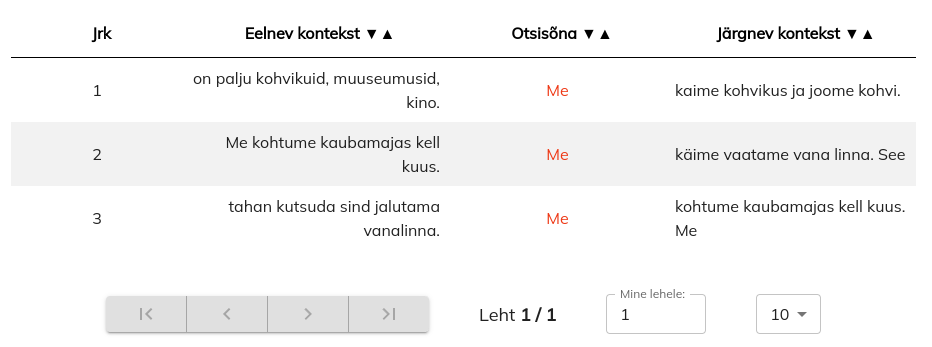
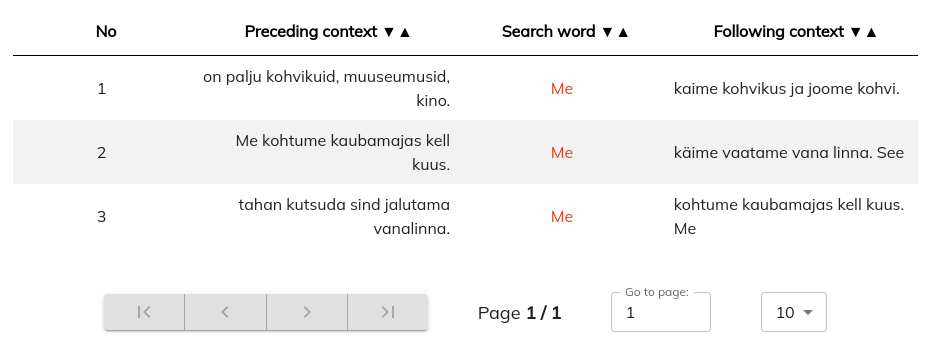
Osad pildid lisatud.

diff --git a/ui/src/elle/components/styles/InfoElement.css b/ui/src/elle/components/styles/InfoElement.css
@@ -1,127 +1,127 @@
 @keyframes bg-slide-in-info {
-  from {
-    left: -100%;
-  }
-  to {
-    left: 0;
-  }
+    from {
+        left: -100%;
+    }
+    to {
+        left: 0;
+    }
 }
 
 .info-element-container {
-  margin-top: 100px;
-  height: 700px !important;
-  border-radius: 50px;
+    margin-top: 100px;
+    height: 700px !important;
+    border-radius: 50px;
 }
 
 .info-element-inner {
-  width: 100%;
-  height: 100%;
-  border-radius: 45px;
-  position: relative;
-  overflow: hidden;
-  display: flex;
+    width: 100%;
+    height: 100%;
+    border-radius: 45px;
+    position: relative;
+    overflow: hidden;
+    display: flex;
 }
 
 .info-element-inner::after {
-  height: 15%;
-  width: 31%;
-  left: -10.5%;
-  top: 0;
-  background-color: #FFD0FD;
-  position: absolute;
-  content: "";
-  transform: skew(-45deg);
-  z-index: 2;
+    height: 15%;
+    width: 31%;
+    left: -10.5%;
+    top: 0;
+    background-color: #FFD0FD;
+    position: absolute;
+    content: "";
+    transform: skew(-45deg);
+    z-index: 2;
 }
 
 .info-tool-title {
-  display: flex;
-  padding: 1%;
-  align-items: center;
-  justify-content: center;
-  height: 15%;
-  width: 20%;
-  background-color: transparent;
-  position: absolute;
-  z-index: 3;
+    display: flex;
+    padding: 1%;
+    align-items: center;
+    justify-content: center;
+    height: 15%;
+    width: 20%;
+    background-color: transparent;
+    position: absolute;
+    z-index: 3;
 }
 
 .elle-tools {
-  width: 17%;
-  height: 100%;
-  display: flex;
-  flex-direction: column;
-  justify-content: flex-end;
-  align-items: flex-end;
+    width: 17%;
+    height: 100%;
+    display: flex;
+    flex-direction: column;
+    justify-content: flex-end;
+    align-items: flex-end;
 }
 
 .btn-visible:nth-child(7)::after {
-  border-radius: 0 5px 0 0;
+    border-radius: 0 5px 0 0;
 }
 
 .info-video {
-  display: flex;
-  align-items: center;
-  justify-content: flex-end;
-  width: 83%;
-  height: 100%;
+    display: flex;
+    align-items: center;
+    justify-content: flex-end;
+    width: 83%;
+    height: 100%;
 }
 
 .info-image {
-  height: 100%;
+    width: 100%;
 }
 
 .info-video-styling {
-  position: relative;
-  width: 100%;
+    position: relative;
+    width: 100%;
 }
 
 .info-video::after {
-  content: "";
-  top: 0;
-  width: 85%;
-  height: 100%;
-  background-color: #0F0411;
-  opacity: 5%;
-  position: absolute;
+    content: "";
+    top: 0;
+    width: 85%;
+    height: 100%;
+    background-color: #0F0411;
+    opacity: 5%;
+    position: absolute;
 }
 
 .btn-visible:nth-child(1) .info-box-slide-visible {
-  top: 5%;
+    top: 5%;
 }
 
 .btn-visible:nth-child(7) .info-box-slide-visible {
-  bottom: 5%;
+    bottom: 5%;
 }
 
 .video-overlay {
-  position: absolute;
-  z-index: 1;
-  height: 100%;
-  width: 50%;
-  display: flex;
-  flex-direction: column;
-  justify-content: center;
-  align-items: center;
+    position: absolute;
+    z-index: 1;
+    height: 100%;
+    width: 50%;
+    display: flex;
+    flex-direction: column;
+    justify-content: center;
+    align-items: center;
 }
 
 .play-button-info {
-  scale: 7;
-  color: rgb(204, 168, 253);
-  outline: 2px rgb(204, 168, 253) solid;
-  border-radius: 100px;
-  background-color: rgb(15, 14, 17, 0.5);
-  transition: 0.3s ease-in-out;
+    scale: 7;
+    color: rgb(204, 168, 253);
+    outline: 2px rgb(204, 168, 253) solid;
+    border-radius: 100px;
+    background-color: rgb(15, 14, 17, 0.5);
+    transition: 0.3s ease-in-out;
 }
 
 .play-button-info:hover {
-  cursor: pointer;
-  scale: 8
+    cursor: pointer;
+    scale: 8
 }
 
 .tools-video-text {
-  font-size: 2em !important;
-  top: 20%;
+    font-size: 2em !important;
+    top: 20%;
 }
 
 

diff --git a/ui/src/elle/pages/query/Query.js b/ui/src/elle/pages/query/Query.js
@@ -45,7 +45,7 @@ import {useTranslation} from 'react-i18next';
 import ManageSearchIcon from '@mui/icons-material/ManageSearch';
 import ReadMoreIcon from '@mui/icons-material/ReadMore';
 
-export default function Query() {
+export default function Query(props) {
 
   const {t} = useTranslation();
   const selectWidth = 300;
@@ -79,7 +79,7 @@ export default function Query() {
     cZjHWUPtD: false,
     cwUSEqQLt: false
   });
-  const [filterOpen, setFilterOpen] = useState(true);
+  const [filterHidden, setFilterHidden] = useState(true);
   const [inputOpen, setInputOpen] = useState(true);
   const [queryAnswer, setQueryAnswer] = useState(false);
   const [singlePropertyData, setSinglePropertyData] = useState({
@@ -405,22 +405,28 @@ export default function Query() {
   {/*TODO Query buttons need to be redone*/
   }
   const setFilterBoxClass = () => {
-    if (filterOpen) {
+    if (filterHidden) {
       setInputOpen(true);
-      setFilterOpen(false);
+      setFilterHidden(false);
       document.getElementById("choose-input-button").classList.remove("button-box-open");
       document.getElementById("choose-text-button").classList.add("button-box-open");
-    } else if (!filterOpen) {
-      setFilterOpen(true);
+    } else if (!filterHidden) {
+      setFilterHidden(true);
       document.activeElement.blur();
       document.getElementById("choose-text-button").classList.remove("button-box-open");
     }
   }
 
+  useEffect(() => {
+    if (props.queryOpen === 'queryOpen') {
+      setFilterHidden(false);
+    }
+  }, []);
+
   const closeInputHidden = () => {
     if (inputOpen) {
       setInputHidden();
-    } else if (filterOpen) {
+    } else if (filterHidden) {
       setFilterBoxClass();
     }
   }
@@ -429,7 +435,7 @@ export default function Query() {
   }
   const setInputHidden = () => {
     if (inputOpen) {
-      setFilterOpen(true);
+      setFilterHidden(true);
       setInputOpen(false);
       document.getElementById("choose-text-button").classList.remove("button-box-open");
       document.getElementById("choose-input-button").classList.add("button-box-open");
@@ -461,7 +467,7 @@ export default function Query() {
         </Button>
         <Box
           id="menu-box-choose-text"
-          hidden={filterOpen}
+          hidden={filterHidden}
           className="menu-box-choose-text"
         >
           {!queryAnswer ?

diff --git a/ui/src/elle/components/home/InfoElement.js b/ui/src/elle/components/home/InfoElement.js
@@ -8,7 +8,7 @@ import i18n from "i18next";
 import wordlistImgEt from "../../resources/images/home/sonaloend_et.png";
 import wordlistImgEn from "../../resources/images/home/sonaloend_en.png";
 import wordcontextImgEt from "../../resources/images/home/sonakontekstis_et.png";
-import wordcontextImgEn from "../../resources/images/home/sonakontekstis_en.png";
+import wordcontextImgEn from "../../resources/images/home/sonakontekstis_et.png";
 import collocateImgEt from "../../resources/images/home/naabersonad_et.png";
 import collocateImgEn from "../../resources/images/home/naabersonad_en.png";
 import analyserImgEt from "../../resources/images/home/sonaanalyys_et.png";
@@ -80,7 +80,7 @@ export default function InfoElement() {
             setOpenTab={setOpentab}
             setImageSelected={setImageSelected}
             imageNo={2}
-            tabReference={null}
+            tabReference={"queryOpen"}
             linkTo={'/tools'}
           />
           <InfoElementTabCard

diff --git a/ui/src/elle/pages/Tools.js b/ui/src/elle/pages/Tools.js
@@ -15,7 +15,8 @@ import {TabStyle} from "../const/Constants";
 
 export default function Tools() {
   const {state} = useLocation();
-  const page = state ? state.pageNo : '1';
+  const page = state && state.pageNo !== 'queryOpen' ? state.pageNo : '1';
+  const queryOpen = state && state.pageNo === 'queryOpen' ? state.pageNo : null;
   const {t} = useTranslation();
   const navigate = useNavigate();
   const [tabPage, setTabPage] = useState(page);
@@ -75,7 +76,7 @@ export default function Tools() {
     <Box className="outer-container-tools">
       <Box className="tool-page-container-outer">
         <Box className="outer-outer">
-          <Query/>
+          <Query queryOpen={queryOpen}/>
         </Box>
         <Box className="tools-box-right">
           <TabContext value={tabPage} className="tab-context-class">
